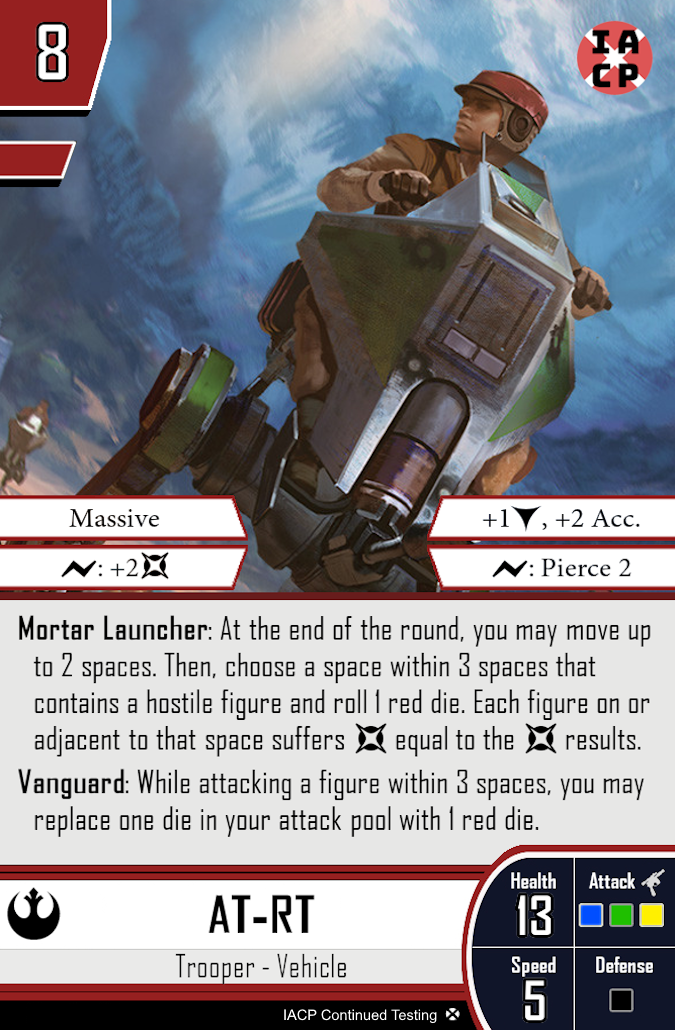
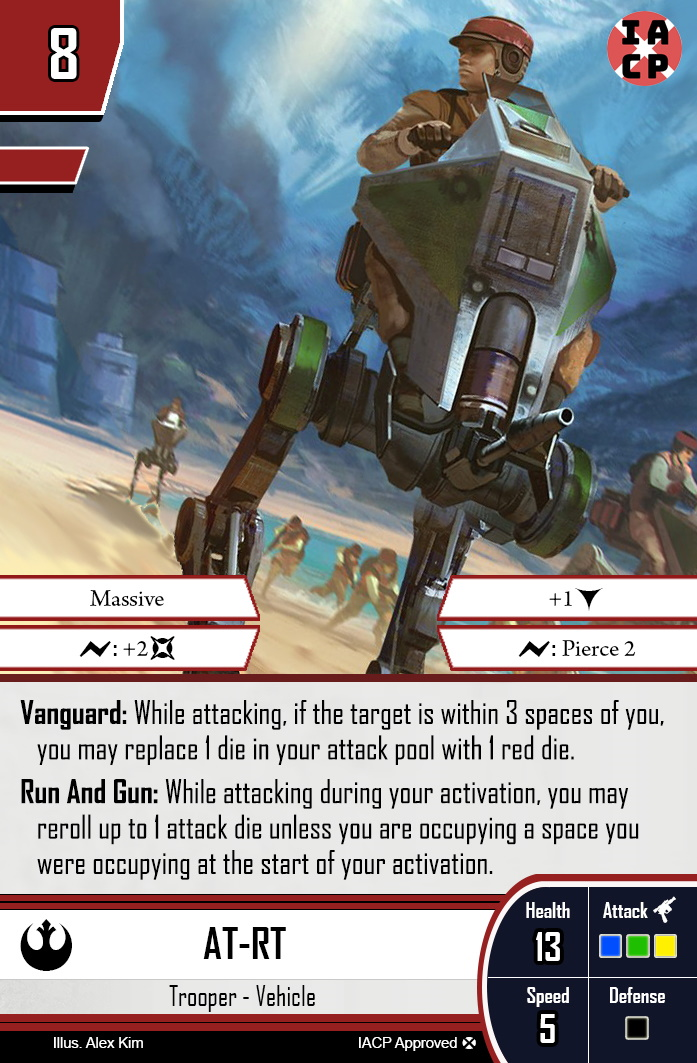
Added approved version of AT_RT in addition to playtest version.

diff --git a/CHANGELOG.md b/CHANGELOG.md
@@ -47,6 +47,8 @@ and this project adheres to [Semantic Versioning](https://semver.org/spec/v2.0.0
 - **PT filter button:** Toggle beside FFG/IACP/ALL to show only playtest cards; turns AUTO off when enabled and restores AUTO when disabled. Tooltip: "Isolate Playtesting Cards".
 
 ### Changed
+- Added approved version of AT_RT in addition to playtest version. (2026-09-30)
+- Added IACP versions of clawdites to work better with Vassal versions. (2026-09-30)
 - Updated The Armorer text (2026-09-27)
 - Updated The Armorer last ability text. (2026-09-27)
 - Corrected Paz Vizsla card defence die (was white). (2026-09-26)
